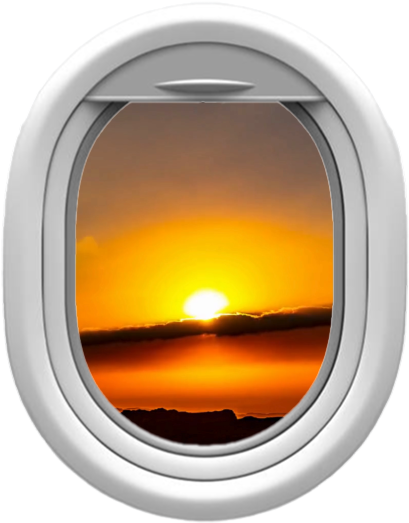
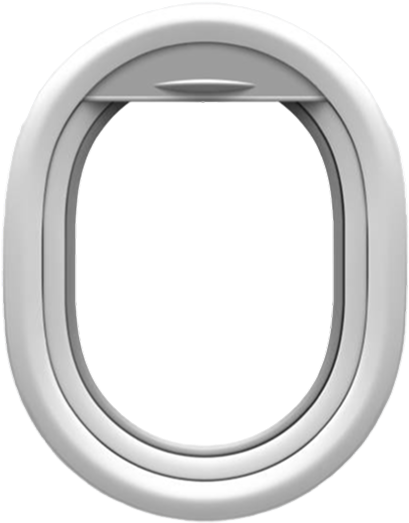
content4 띠 구현

diff --git a/src/components/home/content4/component/Component1.jsx b/src/components/home/content4/component/Component1.jsx
@@ -1,0 +1,31 @@
+import "./style.scss";
+
+const Component1 = () => {
+  return (
+    <div>
+      <svg
+        xmlns="http://www.w3.org/2000/svg"
+        width="1920"
+        height="797"
+        viewBox="0 0 1920 797"
+        fill="none"
+      >
+        <path
+          id="flowPath"
+          d="M914.792 797C848.299 797 783.017 785.111 723.778 762.011C650.69 733.52 590.073 690.998 533.026 628.208C475.019 564.362 425.371 483.382 384.449 412.579C281.981 235.282 209.539 166.693 119.032 108.155C85.3319 86.3608 46.6116 74.6176 3.94621 73.249C-28.9713 72.1937 -51.9947 78.034 -52.2139 78.0967L-52.0469 78.0549L-71 7.41823C-66.126 6.10182 36 -22 158.681 46.7223C217.76 79.8162 259.667 120.65 301.748 167.184C349.517 219.997 395.887 286.34 447.685 375.96C544.413 543.331 621.279 643.566 750.288 693.861C872.387 741.461 1020.67 732.235 1137.28 669.769C1181.84 645.906 1215.05 621.542 1250.22 595.757C1321.63 543.394 1395.46 489.254 1564.32 438.698L1565.72 438.28L1567.15 437.977C1575.72 436.149 1779.05 393.48 1944 428.741L1928.74 500.266C1785.78 469.707 1601.28 505.667 1583.73 509.23C1428.04 556.025 1362.62 603.99 1293.38 654.766C1257.72 680.916 1220.85 707.955 1171.75 734.262C1108.29 768.259 1034.48 789.374 958.302 795.308C943.785 796.436 929.257 797 914.792 797Z"
+          fill="#FF7F50"
+        />
+
+        <text fill="#000" fontSize="24" fontWeight="bold">
+          <textPath href="#flowPath" startOffset="100%" id="scrollText">
+            OSAKA TOKYO NHA TRANG FUKUOKA DANANG GUAM SAPPORO BALI PHUKET MANILA
+            THAILAND · OSAKA TOKYO NHA TRANG FUKUOKA DANANG GUAM SAPPORO BALI
+            PHUKET MANILA THAILAND ·
+          </textPath>
+        </text>
+      </svg>
+    </div>
+  );
+};
+
+export default Component1;

diff --git a/src/components/home/content4/style.scss b/src/components/home/content4/style.scss
@@ -1,1 +1,57 @@
 @use "../../../styles/utils" as *;
+.content4 {
+  margin-top: 15rem;
+  width: 100%;
+  height: 86.75rem;
+
+  position: relative;
+  .content4_top {
+    display: flex;
+    justify-content: center;
+    align-items: center;
+    gap: 8.62rem;
+
+    p {
+      font-size: 1.2rem;
+      font-weight: bold;
+      font-size: 2.8125rem;
+    }
+    .text1 {
+      color: #828282;
+    }
+    .text2 {
+      color: $orange;
+    }
+    .imgwrap {
+      position: relative;
+      width: 25.5625rem;
+      height: 32.6875rem;
+
+      .airplane {
+        position: relative;
+        width: 100%;
+        height: 100%;
+        z-index: 2; // 프레임이 위로
+        pointer-events: none;
+      }
+
+      video {
+        position: absolute;
+        top: 0;
+        left: 0;
+        width: 100%;
+        height: 100%;
+        object-fit: cover;
+        z-index: 1; // 비디오는 뒤에
+        clip-path: ellipse(38% 48% at 50% 50%);
+      }
+    }
+  }
+  .content4_bg {
+    img {
+      position: absolute;
+      left: 0;
+      bottom: 0;
+    }
+  }
+}

diff --git a/src/components/home/content4/Content4.jsx b/src/components/home/content4/Content4.jsx
@@ -1,7 +1,30 @@
+import Component1 from "./component/component1";
 import "./style.scss";
 
 const Content4 = () => {
-  return <div></div>;
+  return (
+    <div className="content4">
+      <div className="content4_top">
+        <p className="text1">항공+호텔 조합</p>
+        <div className="imgwrap">
+          <img
+            className="airplane"
+            src="./images/main/airplane.png"
+            alt="airplane"
+          />
+          <video autoPlay muted loop playsInline>
+            <source src="/videos/main/flight.mp4" type="video/mp4" />
+            브라우저가 비디오 태그를 지원하지 않습니다.
+          </video>
+        </div>
+        <p className="text2">선착순 한정 특가!</p>
+      </div>
+      <div className="content4_bg">
+        <img src="./images/main/hotflightBG.png" alt="content4_bg" />
+      </div>
+      <Component1 />
+    </div>
+  );
 };
 
 export default Content4;

diff --git a/src/pages/home/index.jsx b/src/pages/home/index.jsx
@@ -13,8 +13,8 @@ function Home() {
       <HomeVisual />
       {/* <Content1 /> */}
       {/* <Content2 /> */}
-      <Content3 />
-      {/* <Content4 /> */}
+      {/* <Content3 /> */}
+      <Content4 />
       {/* <Content5 /> */}
       {/* <Content6 /> */}
     </main>

diff --git a/src/components/home/content4/component/style.scss b/src/components/home/content4/component/style.scss
@@ -1,0 +1,14 @@
+@use "../../../../styles/utils" as *;
+
+#scrollText {
+  animation: textFlow 20s linear infinite;
+}
+
+@keyframes textFlow {
+  from {
+    startoffset: 100%;
+  }
+  to {
+    startoffset: 0%;
+  }
+}
